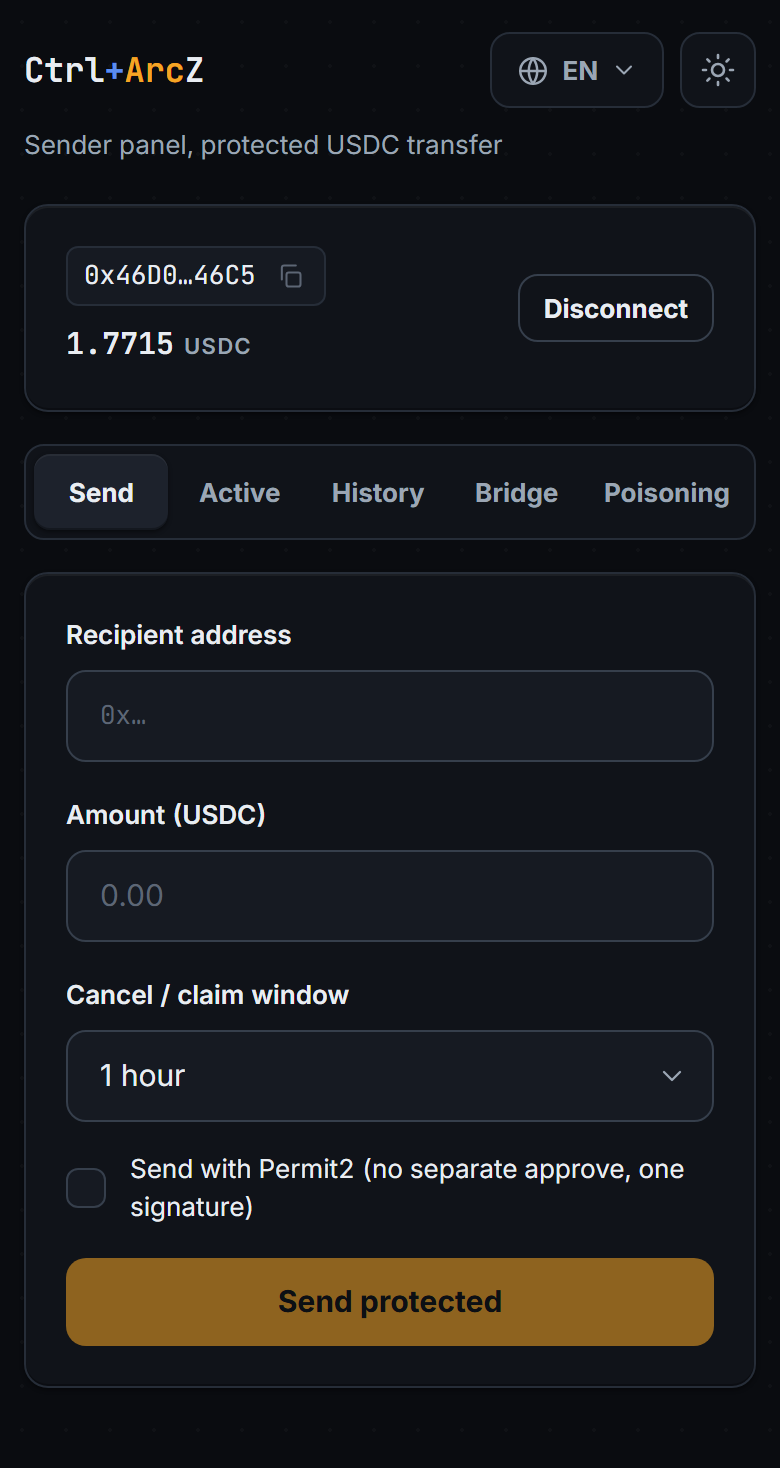
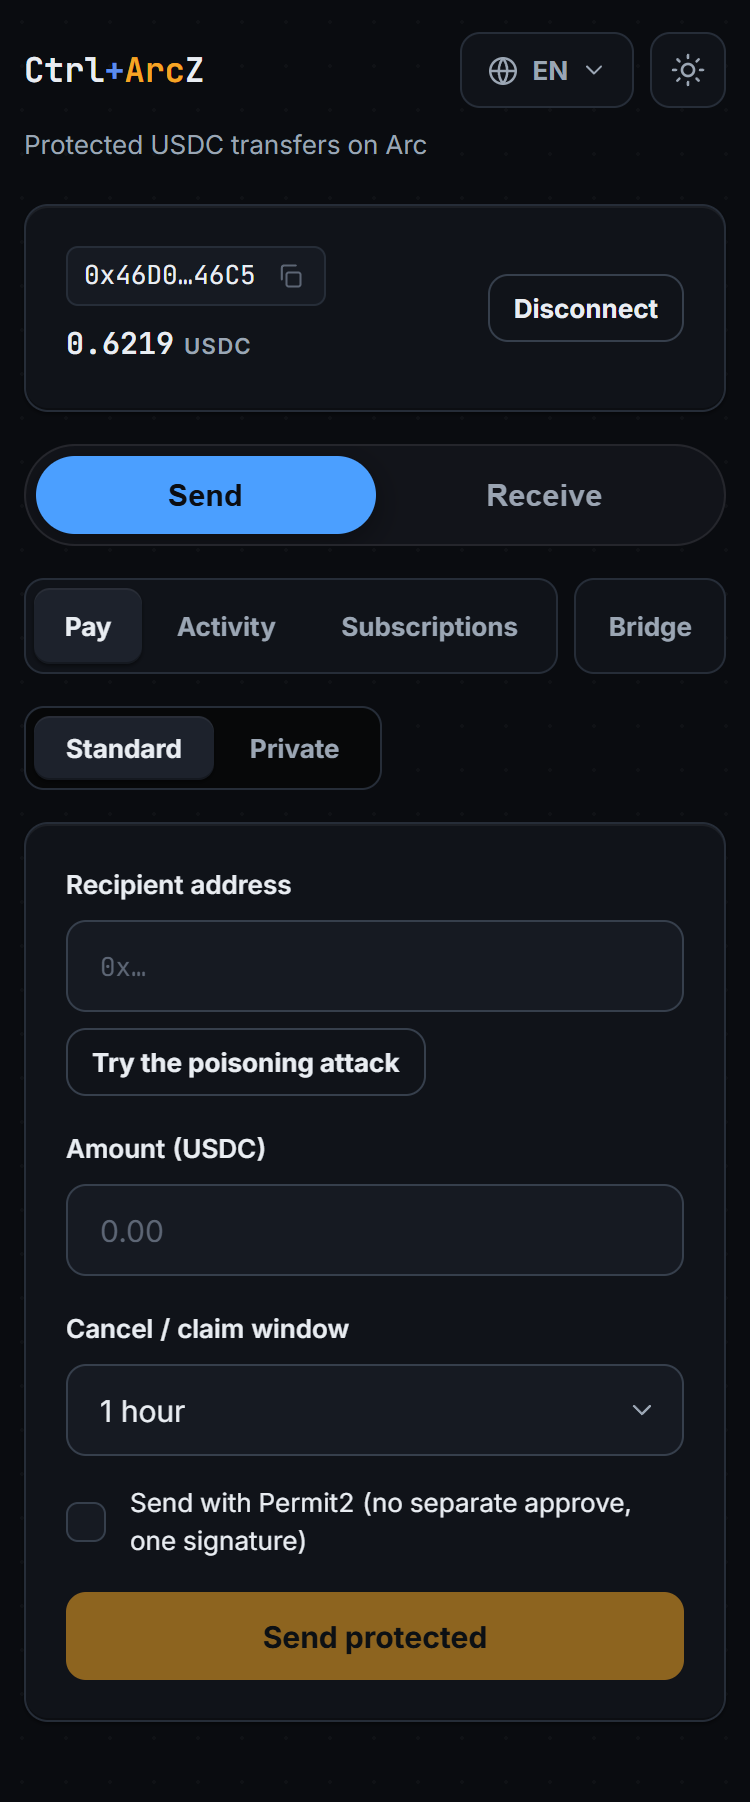
docs: shoot the README against the app that actually exists, and put the poisoning demo back
Every screenshot in docs/screens was from 13 July and showed an app that is gone:
the old five-tab bar, a six-digit code, a "Transfer number" field, and a claim link
pointing at http://localhost:5174, which was the receiver app we deleted. The prose
had been updated to the single 16-character code; the pictures had not.

All of them are retaken from the running app on Arc Testnet, and the flows behind
them are real: transfer #47 was sent, handed over as H0A4-KNCA-90RT-43MZ, and
claimed by a zero-balance wallet through the relayer. Adds a shot of the received
history, which had no picture at all.

The poisoning demo had quietly stopped existing. DemoTab was orphaned when the
navigation was restructured: still compiled, still translated, rendered by nothing,
while the README kept describing it. Rather than restore a tab nobody could reach,
the scenario now lives in the Send form, which is where the firewall lives. It
reads who this wallet has actually paid, crafts a lookalike of one of them, and
drops it into the recipient field, so the verdict appears exactly where a victim
would see it.

That also makes the demo honest. The old one imitated an address from
configuration, so on a real user's wallet the firewall had nothing to compare it
against and returned "new address" instead of blocking. Crafted from the wallet's
own verified recipients, it blocks, which is the claim the README makes.

diff --git a/apps/sender/src/components/SendTab.tsx b/apps/sender/src/components/SendTab.tsx
@@ -32,8 +32,9 @@ import {
   useToast,
   type Step,
 } from '@ctrl-arcz/demo-kit/ui';
-import { IconExternal, IconLock } from '@ctrl-arcz/demo-kit/ui';
+import { IconExternal, IconLock, short } from '@ctrl-arcz/demo-kit/ui';
 import { saveTransfer } from '../store.js';
+import { craftLookalikeOfKnownRecipient } from '../lib/poisoning.js';
 
 const config = defineConfig({ recallWindow: 3600, onWarning: 'warn' });
 /** How far back to scan for RecipientVerified. Matches the co-signer's fallback. */
@@ -60,6 +61,9 @@ export function SendTab({ session, onSent }: { session: Session; onSent: () => v
   const [busy, setBusy] = useState(false);
   const [step, setStep] = useState(0);
   const [error, setError] = useState<string | null>(null);
+  // The poisoning scenario: which real address the lookalike in the field imitates.
+  const [crafting, setCrafting] = useState(false);
+  const [poisonOf, setPoisonOf] = useState<string | null>(null);
   const [sent, setSent] = useState<SentInfo | null>(null);
   const debounce = useRef<ReturnType<typeof setTimeout>>();
   // Bumped on every check dispatch so a slow, stale response can never overwrite
@@ -133,6 +137,21 @@ export function SendTab({ session, onSent }: { session: Session; onSent: () => v
     { value: '3600', label: t('send.window1h') },
     { value: '86400', label: t('send.window24h') },
   ];
+
+  async function craftPoisoned() {
+    setCrafting(true);
+    try {
+      const crafted = await craftLookalikeOfKnownRecipient(session.address as Address);
+      if (!crafted) {
+        toast.push(t('demo.noHistory'), 'error');
+        return;
+      }
+      setPoisonOf(crafted.real);
+      setTo(crafted.fake); // the existing debounced check runs and renders the verdict
+    } finally {
+      setCrafting(false);
+    }
+  }
 
   async function handleSend() {
     setError(null);
@@ -263,6 +282,28 @@ export function SendTab({ session, onSent }: { session: Session; onSent: () => v
           autoComplete="off"
         />
       </Field>
+
+      {/* The attack, in one click, in the place it actually happens. It crafts a
+          real lookalike of someone this wallet has already paid and drops it into
+          the field above, so the firewall you are about to trust is the one that
+          judges it. Nothing is sent; the verdict appears where every verdict does. */}
+      <div style={{ marginTop: 8 }}>
+        <Button
+          variant="ghost"
+          size="sm"
+          loading={crafting}
+          disabled={crafting}
+          data-testid="poison-demo"
+          onClick={() => void craftPoisoned()}
+        >
+          {t('demo.tryIt')}
+        </Button>
+      </div>
+      {poisonOf && (
+        <p className="muted" style={{ marginTop: 6 }} data-testid="poison-note">
+          {t('demo.craftedFrom').replace('{addr}', short(poisonOf))}
+        </p>
+      )}
 
       {checking && (
         <div style={{ marginTop: 12 }}>

diff --git a/apps/sender/src/lib/poisoning.ts b/apps/sender/src/lib/poisoning.ts
@@ -1,0 +1,50 @@
+import type { Address } from 'viem';
+import { CTRL_ARCZ_ADDRESS, ctrlArcZAbi, craftLookalike, getLogsChunked } from '@ctrl-arcz/sdk';
+import { getPublicClient } from '@ctrl-arcz/demo-kit';
+
+/** How far back to look for someone this wallet has already paid. */
+const LOOKBACK = 200_000n;
+
+/** Configured stand-in for a wallet with no history yet (demo builds only). */
+const FALLBACK = import.meta.env.VITE_DEMO_RECEIVER as Address | undefined;
+
+/**
+ * Craft a real lookalike of someone this wallet has actually paid.
+ *
+ * The attack this product exists to stop only works against a counterparty the
+ * victim already trusts, so a canned address proves nothing: the firewall would
+ * just call it a new address. Crafting the lookalike from the connected wallet's
+ * own verified recipients is what makes the demo the real thing, and it is why
+ * this reads history instead of taking an address from configuration.
+ *
+ * Returns null when the wallet has paid nobody yet and no fallback is configured;
+ * there is no honest scenario to show in that case.
+ */
+export async function craftLookalikeOfKnownRecipient(
+  sender: Address,
+): Promise<{ real: Address; fake: Address } | null> {
+  const real = (await lastVerifiedRecipient(sender)) ?? FALLBACK ?? null;
+  if (!real) return null;
+  return { real, fake: craftLookalike(real) };
+}
+
+async function lastVerifiedRecipient(sender: Address): Promise<Address | null> {
+  try {
+    const client = getPublicClient();
+    const latest = await client.getBlockNumber();
+    const logs = await getLogsChunked<{ recipient?: Address }>(client, {
+      address: CTRL_ARCZ_ADDRESS,
+      abi: ctrlArcZAbi,
+      eventName: 'RecipientVerified',
+      args: { sender },
+      fromBlock: latest > LOOKBACK ? latest - LOOKBACK : 0n,
+    });
+    for (let i = logs.length - 1; i >= 0; i--) {
+      const r = logs[i]?.args.recipient;
+      if (r) return r;
+    }
+    return null;
+  } catch {
+    return null; // no history reachable: fall back rather than fail the page
+  }
+}

diff --git a/packages/demo-kit/src/i18n/tr.ts b/packages/demo-kit/src/i18n/tr.ts
@@ -266,16 +266,12 @@ export const tr: Record<TranslationKey, string> = {
   'history.zeroValue': '0 değerli',
   'history.unknownToken': 'bilinmeyen token',
 
-  'demo.title': 'Zehirleme senaryosu',
-  'demo.body':
-    'Güvendiğiniz {addr} adresinin ilk ve son karakterleriyle aynı görünen gerçek bir sahte adres üretilir; firewall onu gönderimden önce bloklar.',
-  'demo.run': 'Sahte adresi üret ve tara',
+  'demo.tryIt': 'Zehirleme saldırısını dene',
+  'demo.craftedFrom':
+    '{addr} adresini taklit ediyor. Cüzdanda ikisi aynı görünür.',
+  'demo.noHistory':
+    'Henüz doğrulanmış alıcı yok. Önce bir korumalı transfer tamamla, senaryonun taklit edecek gerçek bir adresi olsun.',
   'demo.running': 'Üretiliyor ve taranıyor...',
-  'demo.realAddress': 'Gerçek adres',
-  'demo.fakeAddress': 'Üretilen sahte adres',
-  'demo.indistinguishable': 'İkisi de cüzdanda {addr} görünür, ayırt edilemez.',
-  'demo.notConfigured':
-    'Senaryonun taklit edeceği adresi apps/sender/.env.local içindeki VITE_DEMO_RECEIVER değişkenine yazın.',
 
   'claim.title': 'Transferi claim et',
   'claim.transferId': 'Transfer numarası',

diff --git a/packages/demo-kit/src/i18n/en.ts b/packages/demo-kit/src/i18n/en.ts
@@ -270,16 +270,12 @@ export const en = {
   'history.zeroValue': 'zero value',
   'history.unknownToken': 'unknown token',
 
-  'demo.title': 'Poisoning scenario',
-  'demo.body':
-    'A real lookalike of a trusted address {addr} is generated, sharing its first and last characters, and the firewall blocks it before sending.',
-  'demo.run': 'Generate lookalike and scan',
+  'demo.tryIt': 'Try the poisoning attack',
+  'demo.craftedFrom':
+    'Crafted to imitate {addr}. Both render the same in a wallet.',
+  'demo.noHistory':
+    'No verified recipient yet. Complete one protected transfer first, then the scenario has something real to imitate.',
   'demo.running': 'Generating and scanning...',
-  'demo.realAddress': 'Real address',
-  'demo.fakeAddress': 'Generated lookalike',
-  'demo.indistinguishable': 'Both show as {addr} in a wallet, indistinguishable.',
-  'demo.notConfigured':
-    'Set VITE_DEMO_RECEIVER in apps/sender/.env.local to the address this scenario should imitate.',
 
   'claim.title': 'Claim the transfer',
   'claim.transferId': 'Transfer number',

diff --git a/README.md b/README.md
@@ -202,13 +202,22 @@ sequenceDiagram
 </tr>
 </table>
 
-<p><img src="docs/screens/09-claim-received.png" alt="Received" width="330"></p>
+<table>
+<tr>
+<td width="50%"><img src="docs/screens/09-claim-received.png" alt="Received"></td>
+<td width="50%"><img src="docs/screens/14-received-history.png" alt="The received history, searchable and filterable"></td>
+</tr>
+<tr>
+<td>The recipient never had to hold gas: a zero-balance wallet claimed this through the relayer.</td>
+<td>Everything ever sent to this wallet, read from chain rather than from this browser, with search and status filters.</td>
+</tr>
+</table>
 
 Settlement is immediate, because Arc has sub-second deterministic finality. There is no pending limbo for the recipient to sit in.
 
 ### Case B: the firewall refuses
 
-The poisoning tab in the demo does the whole attack in one click: it crafts a **real** lookalike of an address this wallet trusts (same first and last four hex characters, random middle), then runs the firewall against it.
+The Send form does the whole attack in one click. It reads who this wallet has actually paid, crafts a **real** lookalike of one of them (same first and last four hex characters, random middle), and drops it into the recipient field, so the firewall you are about to trust is the one that judges it. Nothing is sent; the verdict appears where every verdict appears.
 
 <p><img src="docs/screens/05-poisoning-scenario.png" alt="A crafted lookalike, blocked by the firewall" width="330"></p>
 
@@ -422,11 +431,17 @@ The co-signer is a gatekeeper, not a custodian. Bringing the money home (`sweepT
 
 ![Subscription detail](./docs/screenshots/subscriptions-detail.png)
 
-Every screenshot above is a real subscription on Arc Testnet. The boxes were deployed and funded on-chain; the list is read from the factory's `AccountCreated` events keyed by the owner's hash, so no identity is stored on-chain; and cancelling really sweeps the box home. The same box in `MODE_PULL` powers the **agent wallet** case: hand an autonomous agent one tightly-scoped box and it can transact on its own, but never past the policy.
+Every screenshot above is a real subscription on Arc Testnet. The boxes were deployed and funded on-chain, and cancelling really sweeps the box home. The same box in `MODE_PULL` powers the **agent wallet** case: hand an autonomous agent one tightly-scoped box and it can transact on its own, but never past the policy.
+
+**A box is owned by a one-time address, and the payer stays off its transactions.** The owner and vault of each box is a fresh ERC-5564 stealth address, announced so that only the payer's viewing key can rediscover it; that is how the list above is built, without an identity or a wallet-derived tag on chain. The two transactions that would otherwise name the payer are relayed: the deploy, and the announcement (`StealthAnnouncer` indexes `msg.sender`, so announcing from your own wallet would publish "this wallet made a stealth box"). So is the small gas top-up a stealth address needs before it can sweep itself, since paying that from your own wallet would write the exact link the stealth address exists to avoid. None of the relayed calls can move a user's funds.
+
+What that does **not** hide is funding: the budget still moves from the payer's wallet into the box in the clear, and no amount of relaying changes that, because the money starts in a public balance. It closes when the transfer itself is confidential, which on Arc means APS. [`docs/privacy.md`](./docs/privacy.md) traces every USDC movement around one real box and states exactly what is and is not hidden.
 
 ## Known limits
 
 - The contract has not been audited. Testnet only.
 - The firewall depends on a single indexer (ArcScan). If it cannot be reached, the report degrades to a warning, or to a block when a lookalike cannot be ruled out. It never degrades to safe.
 - The lookalike in the poisoning scenario is constructed rather than ground out of a keypair. The firewall decides from the address alone, so no private key is needed to prove that it blocks a genuine lookalike.
+- A stealth box hides who owns it, not that it was funded. The budget still moves from the payer's wallet into the box in public. See [`docs/privacy.md`](./docs/privacy.md).
+- Privacy here is unlinkability inside a crowd, and the crowd is however many people use the relayer. The relayer also learns who asked it to submit, because requests are signed so each caller can be quota-limited.
 - Anyone can freeze a pending transfer by burning its five attempts. Funds stay safe; the sender cancels and re-sends.

diff --git a/apps/api/README.md b/apps/api/README.md
@@ -14,10 +14,30 @@ dev endpoints so the mobile app (and any real deployment) has a stable API.
 | POST | `/api/bridge` | CCTP bridge (server-held relayer key). |
 | POST | `/api/gateway` | Circle Gateway transfer. |
 | POST | `/api/gasless-claim` | Gas-sponsored claim (Circle Gas Station). |
+| POST | `/api/relay/create` | Deploy a stealth spend box, so the deploy does not name the payer. |
+| POST | `/api/relay/announce` | Announce that box (`StealthAnnouncer` indexes `msg.sender`). |
+| POST | `/api/relay/gas` | Fixed 0.05 USDC so a stealth address can pay for its own sweep. |
 | POST | `/api/notifications/register` | Register a device Expo push token for a wallet address. |
 
 The co-signer, bridge, gasless and gateway logic is reused from `@ctrl-arcz/demo-kit`
 so the web and mobile apps share exactly one implementation.
+
+Every route that spends the relayer's gas requires a signed request
+(`x-ctrl-address` / `x-ctrl-timestamp` / `x-ctrl-signature` over path, timestamp and
+body hash) and is quota-limited per caller and per day.
+
+## The relay routes
+
+They exist so a stealth box's own transactions do not carry the payer's address.
+None of them can move a user's funds: `createAccount` deploys a clone bound to a
+hash of the stealth address and reads no `msg.sender`, `announce` only emits an
+event, and the gas top-up is a fixed amount of the relayer's own balance, skipped
+when the address already has enough.
+
+The server rebuilds the policy from named fields rather than accepting calldata,
+with the token pinned to USDC and the cosigner pinned to itself, so the relayer can
+only ever sign a call the operator intended. What this does not hide is funding;
+see [`docs/privacy.md`](../../docs/privacy.md).
 
 ## Notifications
 

diff --git a/packages/sdk/README.md b/packages/sdk/README.md
@@ -174,6 +174,6 @@ The report it returns can be handed straight to `sendProtected` as `report`, so 
 
 ## Live reference example
 
-`apps/sender` and `apps/receiver` in the repo are the reference integration: a React and Vite UI on top of this SDK, with real EIP-1193 wallet connection, the risk firewall, protected send (classic and Permit2), code or gasless claim, cancel, and the poisoning scenario. Run `pnpm dev:sender` and `pnpm dev:receiver`. They are the "grab and adapt" starting point for an integrator.
+`apps/sender` in the repo is the reference integration: a React and Vite UI on top of this SDK, with real EIP-1193 wallet connection, the risk firewall, protected send (classic and Permit2), code or gasless claim, cancel, and the poisoning scenario. Sending and receiving are two modes of the one app. Run `pnpm dev:sender`. It is the "grab and adapt" starting point for an integrator.
 
 Testnet only. Not audited. See the repo for the contract, tests, and live demos.
